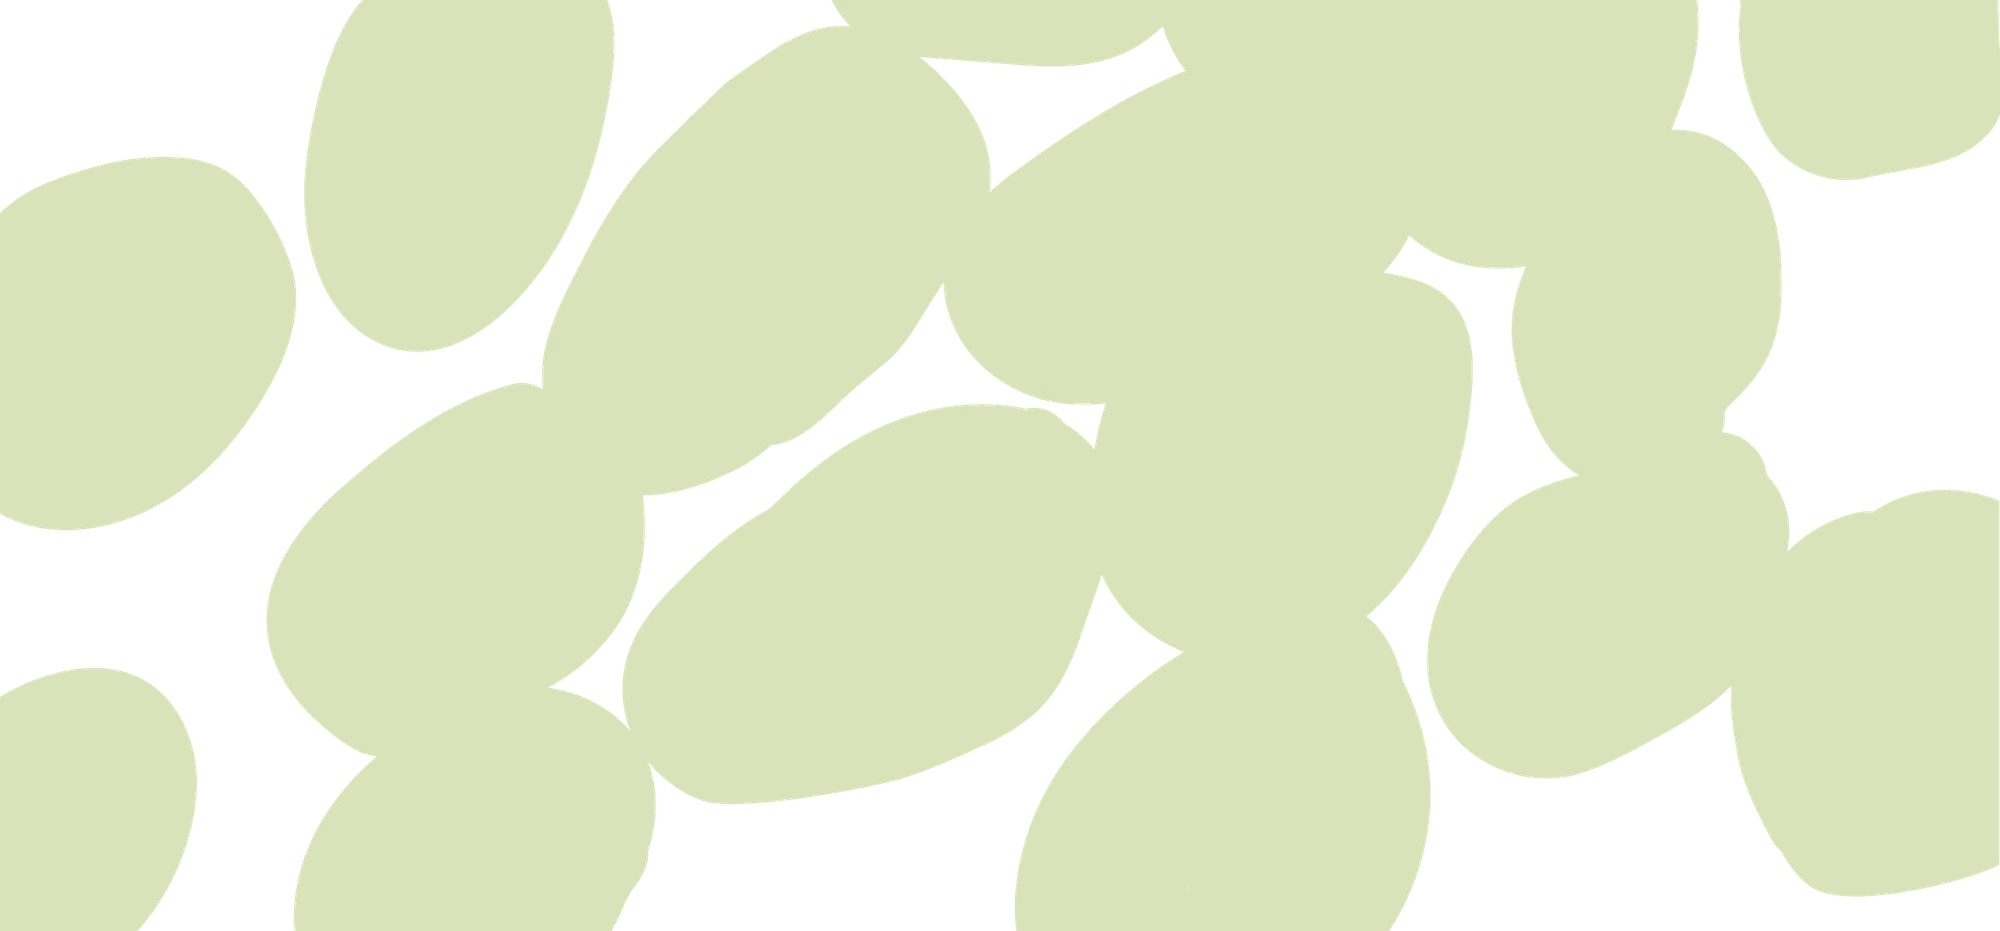
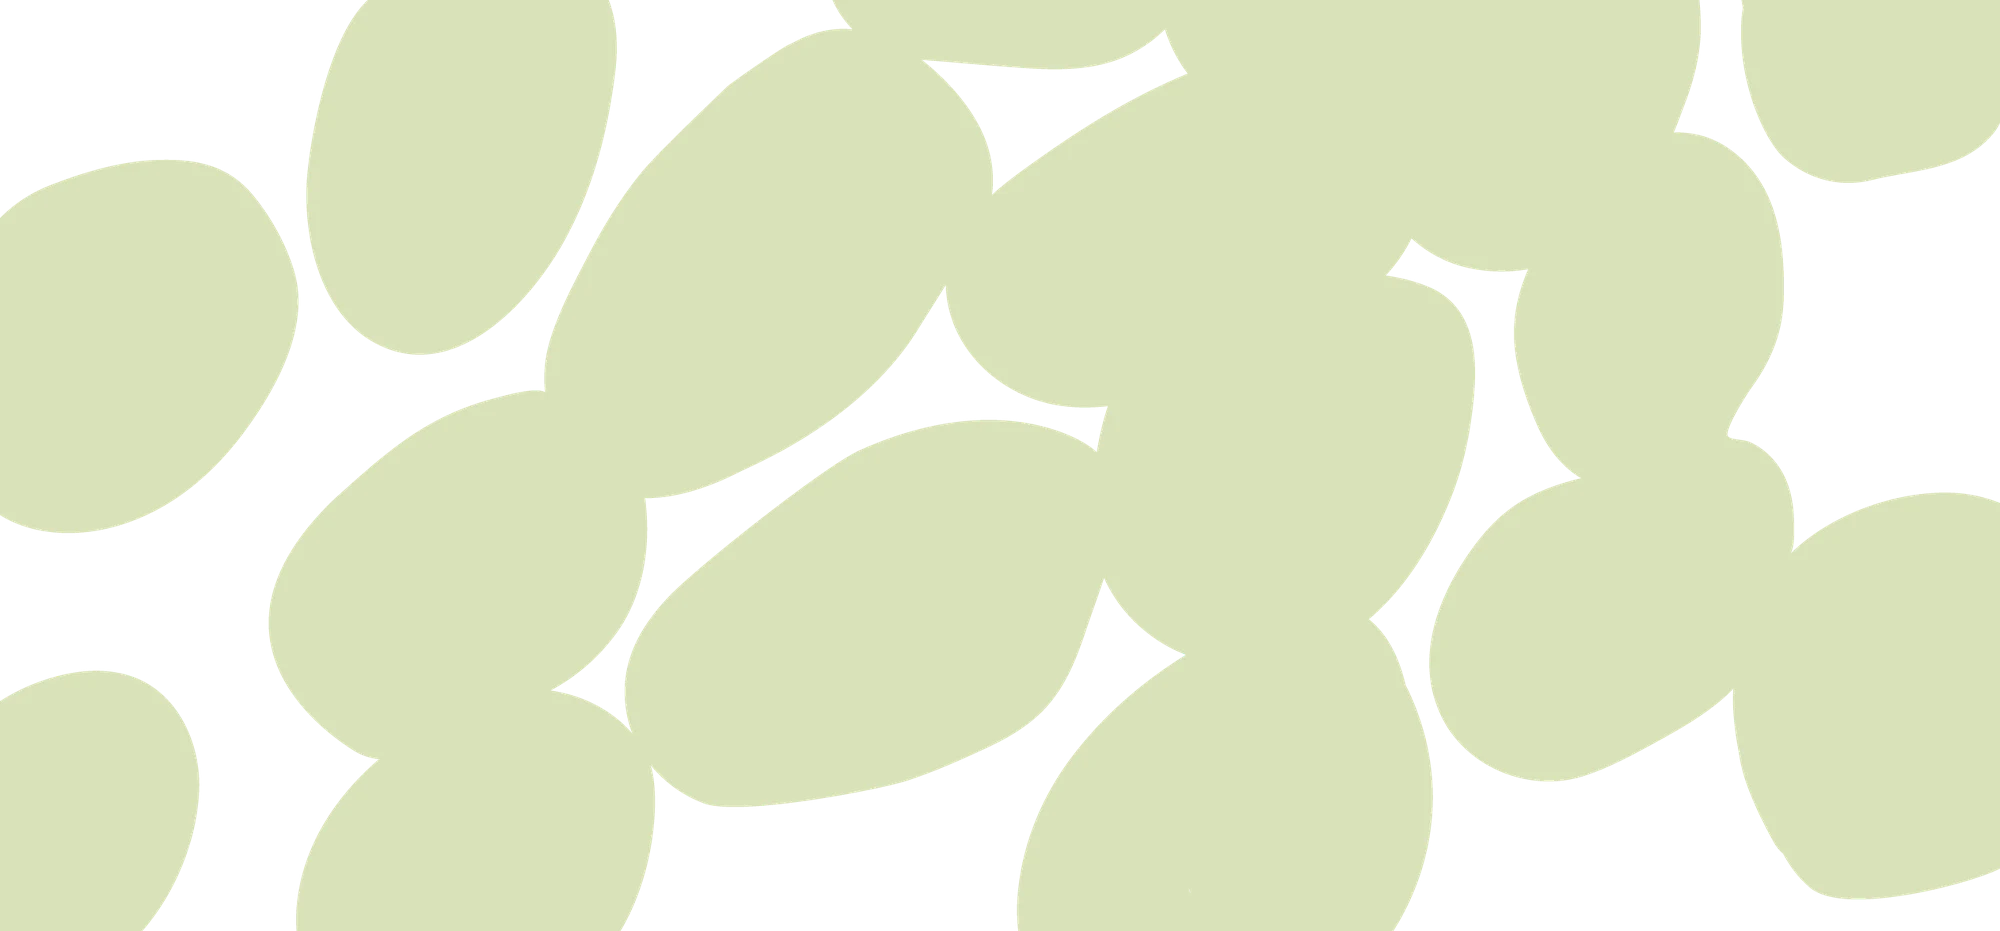
Swap in new summer artwork, fix food photos
Claude-Session: https://claude.ai/code/session_019TNYQ1wUP7nGopK5ozZcJC

diff --git a/public/index.html b/public/index.html
@@ -64,7 +64,7 @@ body::before{content:"";position:fixed;inset:0 0 auto;height:env(safe-area-inset
 
 /* ---------- hero ---------- */
 .hero{position:relative;overflow:hidden;text-align:center;padding-bottom:clamp(56px,8vw,96px)}
-.canopy-hero{inset:0 0 auto 0;width:100%;height:min(80%,760px);object-fit:cover;object-position:50% 0;-webkit-mask-image:linear-gradient(#000 50%,transparent 97%);mask-image:linear-gradient(#000 50%,transparent 97%)}
+.canopy-hero{inset:0 0 auto 0;width:100%;height:min(80%,760px);object-fit:cover;object-position:50% 0;-webkit-mask-image:linear-gradient(#000 72%,transparent);mask-image:linear-gradient(#000 72%,transparent)}
 .canopy-hero-m{display:none}
 .hero::after{content:"";position:absolute;inset:auto 0 0 0;height:46%;background:linear-gradient(to bottom, transparent, var(--stone) 62%);pointer-events:none}
 .hero-inner{position:relative;z-index:2;display:flex;flex-direction:column;align-items:center}
@@ -84,7 +84,7 @@ body::before{content:"";position:fixed;inset:0 0 auto;height:env(safe-area-inset
 .btn.line:hover{background:var(--claret);color:var(--paper)}
 @media (max-width:640px){
   .canopy-hero{display:none}
-  .canopy-hero-m{display:block;inset:0 0 auto 0;width:100%;height:80%;object-fit:cover;object-position:50% 0;-webkit-mask-image:linear-gradient(#000 60%,transparent 98%);mask-image:linear-gradient(#000 60%,transparent 98%)}
+  .canopy-hero-m{display:block;top:0;right:0;width:150%;height:auto}
   .lockup{margin-top:clamp(200px,58vw,280px);width:100%}
   .hero-meta{letter-spacing:.24em;font-size:.72rem}
 }
@@ -113,9 +113,10 @@ body::before{content:"";position:fixed;inset:0 0 auto;height:env(safe-area-inset
 .head.center{margin-inline:auto;text-align:center}
 .head p.sub{margin:18px 0 0;max-width:var(--measure)}
 .head.center p.sub{margin-inline:auto}
-.corner{width:min(46vw,560px);height:auto;z-index:0;opacity:.95}
-.corner-a{top:-60px;right:-120px;-webkit-mask-image:radial-gradient(ellipse 90% 90% at 100% 0,#000 45%,transparent 75%);mask-image:radial-gradient(ellipse 90% 90% at 100% 0,#000 45%,transparent 75%)}
-.corner-b{bottom:-90px;left:-140px;transform:scaleY(-1);-webkit-mask-image:radial-gradient(ellipse 90% 90% at 0 0,#000 45%,transparent 75%);mask-image:radial-gradient(ellipse 90% 90% at 0 0,#000 45%,transparent 75%)}
+.corner{width:min(44vw,540px);height:auto;z-index:0}
+@media (max-width:640px){.corner{width:62vw;opacity:.85}.corner-b{display:none}}
+.corner-a{top:0;right:0}
+.corner-b{bottom:0;left:0;transform:rotate(180deg)}
 
 /* setting */
 .setting-grid{display:grid;grid-template-columns:minmax(0,6fr) minmax(0,5fr);gap:clamp(28px,6vw,80px);align-items:center;position:relative;z-index:2}
@@ -193,7 +194,7 @@ body::before{content:"";position:fixed;inset:0 0 auto;height:env(safe-area-inset
 
 /* riverbank band */
 .river{position:relative;height:clamp(140px,18vw,240px);overflow:hidden;background:var(--stone)}
-.canopy-band{inset:0;width:100%;height:100%;object-fit:cover;object-position:50% 40%;-webkit-mask-image:linear-gradient(90deg,transparent,#000 12%,#000 88%,transparent);mask-image:linear-gradient(90deg,transparent,#000 12%,#000 88%,transparent)}
+.canopy-band{inset:0;width:100%;height:100%;object-fit:cover;object-position:50% 35%}
 .river .lockup{position:absolute;inset:0;margin:auto;width:min(70%,520px);height:fit-content;z-index:2}
 
 /* stay */
@@ -216,8 +217,8 @@ body::before{content:"";position:fixed;inset:0 0 auto;height:env(safe-area-inset
 
 /* details / footer */
 .details{position:relative;overflow:hidden;padding-block:clamp(72px,10vw,140px) clamp(48px,6vw,72px);text-align:center}
-.canopy-foot{inset:auto 0 0 0;width:100%;height:70%;object-fit:cover;object-position:50% 0;transform:scaleY(-1)}
-.details::before{content:"";position:absolute;inset:0 0 auto 0;height:60%;background:linear-gradient(var(--stone) 40%, transparent);z-index:1;pointer-events:none}
+.canopy-foot{right:0;bottom:0;width:min(70vw,900px);height:auto;transform:scaleY(-1)}
+
 .details .wrap{position:relative;z-index:2}
 .dh{font-weight:300;font-size:clamp(2rem,4vw,3.1rem);line-height:1.08;color:var(--claret);margin:14px 0 0}
 .dh em{font-style:italic}
@@ -257,7 +258,7 @@ body::before{content:"";position:fixed;inset:0 0 auto;height:env(safe-area-inset
 
 <header class="hero" id="top">
   <img class="canopy canopy-hero" src="assets/canopy-land.webp" alt="" width="2000" height="931">
-  <img class="canopy canopy-hero-m" src="assets/canopy-tall.webp" alt="" width="1080" height="1438">
+  <img class="canopy canopy-hero-m" src="assets/canopy-drift.webp" alt="" width="1400" height="929">
   <div class="hero-inner wrap">
     <img class="logo" src="assets/logo-bronze.png" alt="67 Pall Mall" width="600" height="419">
     <p class="city">Melbourne</p>
@@ -297,7 +298,7 @@ body::before{content:"";position:fixed;inset:0 0 auto;height:env(safe-area-inset
 </div>
 
 <section class="section" id="setting" aria-labelledby="setting-h">
-  <img class="canopy corner corner-a" src="assets/canopy-land.webp" alt="" width="2000" height="931" loading="lazy">
+  <img class="canopy corner corner-a" src="assets/canopy-drift.webp" alt="" width="1400" height="929" loading="lazy">
   <div class="wrap setting-grid">
     <div class="head">
       <p class="eyebrow">The setting</p>
@@ -314,7 +315,7 @@ body::before{content:"";position:fixed;inset:0 0 auto;height:env(safe-area-inset
 </section>
 
 <section class="section tickets" id="tickets" aria-labelledby="tickets-h">
-  <img class="canopy corner corner-b" src="assets/canopy-portrait.webp" alt="" width="1200" height="1302" loading="lazy">
+  <img class="canopy corner corner-b" src="assets/canopy-drift.webp" alt="" width="1400" height="929" loading="lazy">
   <div class="wrap">
     <div class="head center">
       <p class="eyebrow">Tickets</p>
@@ -367,7 +368,7 @@ body::before{content:"";position:fixed;inset:0 0 auto;height:env(safe-area-inset
 </section>
 
 <section class="section" id="wine" aria-labelledby="wine-h">
-  <img class="canopy corner corner-a" src="assets/canopy-land.webp" alt="" width="2000" height="931" loading="lazy">
+  <img class="canopy corner corner-a" src="assets/canopy-drift.webp" alt="" width="1400" height="929" loading="lazy">
   <div class="wrap">
     <div class="head">
       <p class="eyebrow">The wine</p>
@@ -417,9 +418,9 @@ body::before{content:"";position:fixed;inset:0 0 auto;height:env(safe-area-inset
       <h2 id="food-h">Martin Benn on <em>the great Australian barbecue</em></h2>
     </div>
     <div class="food-grid">
-      <figure class="f1"><img src="assets/{n}.webp" decoding="async" alt="Scallops in the shell on the grill" width="1800" height="1200"></figure>
-      <figure class="f2"><img src="assets/{n}.webp" decoding="async" alt="Cuts of meat cooking over an open fire" width="1200" height="1800"></figure>
-      <figure class="f3"><img src="assets/{n}.webp" decoding="async" alt="Charcuterie, cheese, figs and summer fruit" width="1800" height="1200"></figure>
+      <figure class="f1"><img src="assets/scallops.webp" decoding="async" alt="Scallops in the shell on the grill" width="1800" height="1200"></figure>
+      <figure class="f2"><img src="assets/fire.webp" decoding="async" alt="Cuts of meat cooking over an open fire" width="1200" height="1800"></figure>
+      <figure class="f3"><img src="assets/grazing.webp" decoding="async" alt="Charcuterie, cheese, figs and summer fruit" width="1800" height="1200"></figure>
     </div>
     <div class="food-copy">
       <div class="body">
@@ -441,7 +442,7 @@ body::before{content:"";position:fixed;inset:0 0 auto;height:env(safe-area-inset
 </div>
 
 <section class="section" id="stay" aria-labelledby="stay-h">
-  <img class="canopy corner corner-b" src="assets/canopy-portrait.webp" alt="" width="1200" height="1302" loading="lazy">
+  <img class="canopy corner corner-b" src="assets/canopy-drift.webp" alt="" width="1400" height="929" loading="lazy">
   <div class="wrap">
     <div class="head center">
       <p class="eyebrow">67 Concierge</p>
@@ -499,7 +500,7 @@ body::before{content:"";position:fixed;inset:0 0 auto;height:env(safe-area-inset
 </section>
 
 <section class="details" id="details" aria-labelledby="details-h">
-  <img class="canopy canopy-foot" src="assets/canopy-portrait.webp" alt="" width="1200" height="1302" loading="lazy">
+  <img class="canopy canopy-foot" src="assets/canopy-drift.webp" alt="" width="1400" height="929" loading="lazy">
   <div class="wrap">
     <p class="eyebrow">The details</p>
     <h2 id="details-h" class="dh">See you <em>by the river</em></h2>
